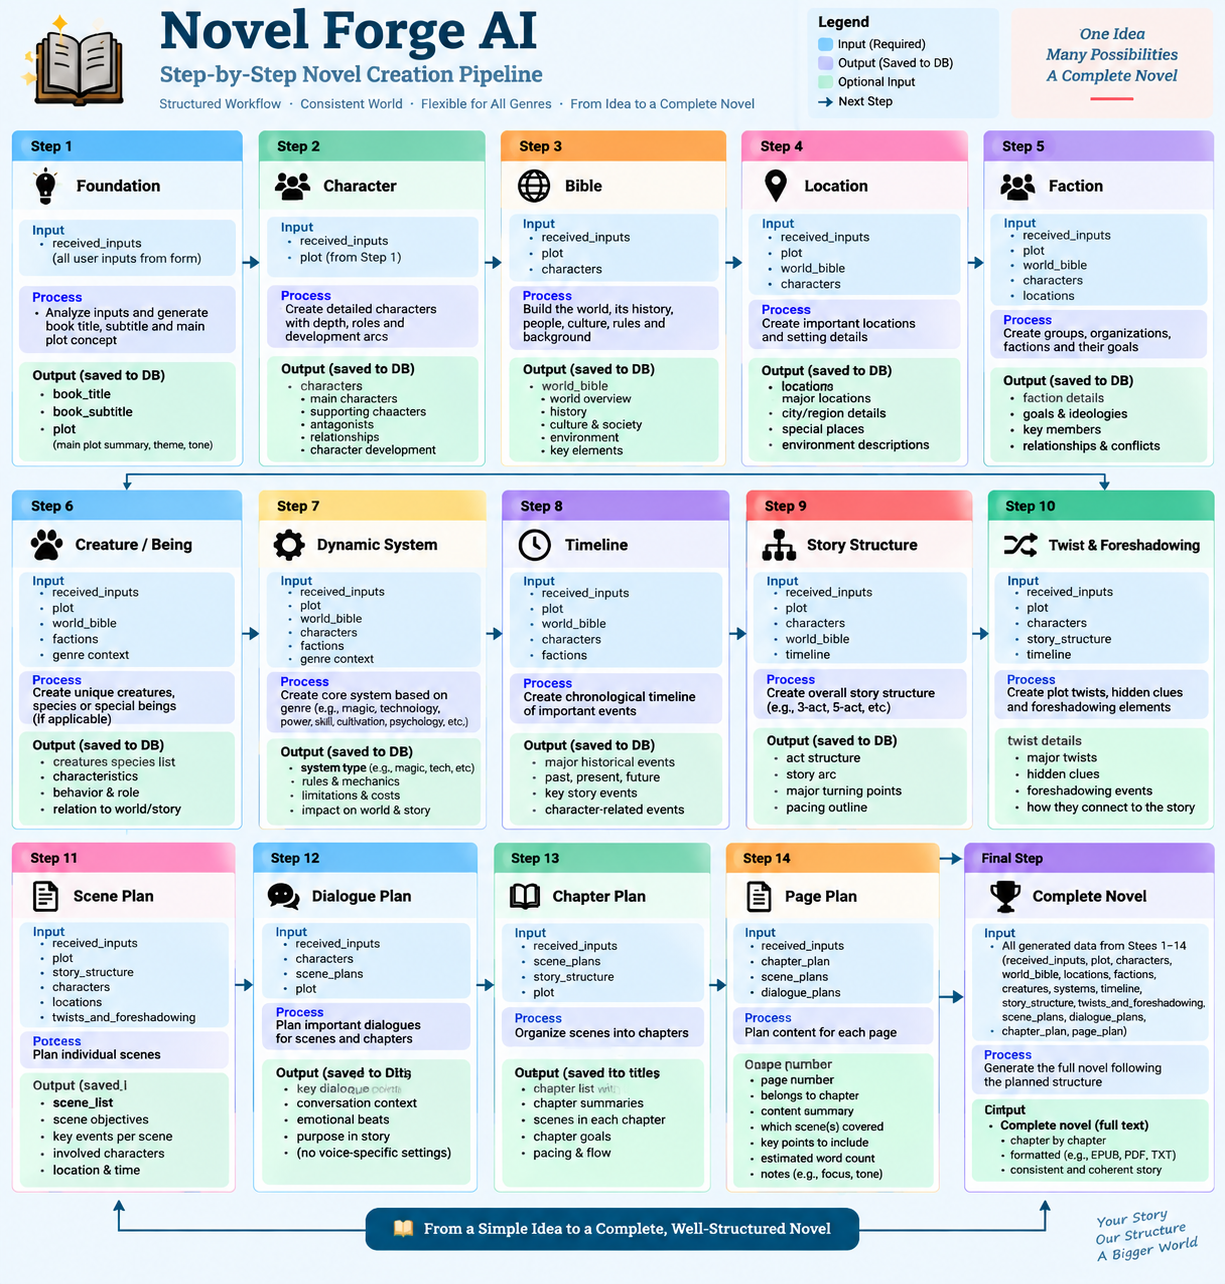
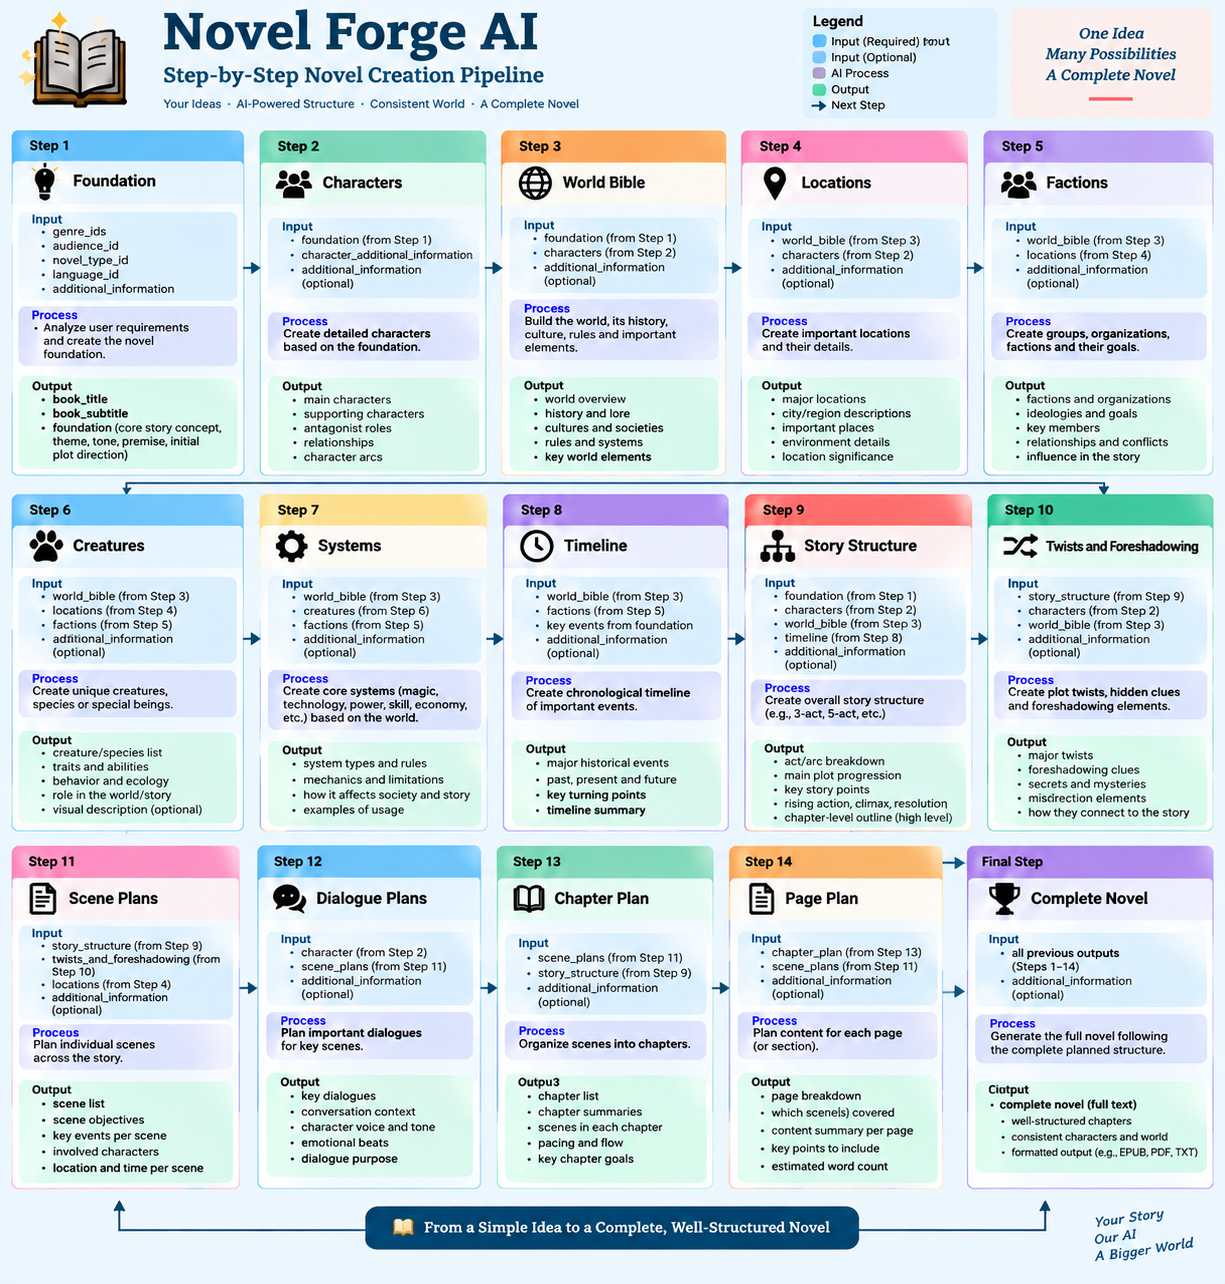
Plot -> foundation

diff --git a/src/resources/js/components/back-office/novel/NovelStep2CharactersForm.vue b/src/resources/js/components/back-office/novel/NovelStep2CharactersForm.vue
@@ -26,12 +26,12 @@ const { novel } = defineProps({
 const isUpdate = computed(() => !!novel?.id);
 
 const charactersGeneratorForm = useForm({
-    plot: novel?.plot
-        ? typeof novel.plot === "string"
-            ? novel.plot
-            : JSON.stringify(novel.plot)
+    foundation: novel?.foundation
+        ? typeof novel.foundation === "string"
+            ? novel.foundation
+            : JSON.stringify(novel.foundation)
         : null,
-    character_additional_information: null,
+    additional_information: null,
     ai_brain_id: null,
 });
 
@@ -48,8 +48,8 @@ const validate = () => {
         valid = false;
     }
 
-    if (!charactersGeneratorForm.plot) {
-        charactersGeneratorForm.setError("plot", "Plot is required");
+    if (!charactersGeneratorForm.foundation) {
+        charactersGeneratorForm.setError("foundation", "Foundation is required");
         valid = false;
     }
 
@@ -89,8 +89,8 @@ const submit = () => {
     <div class="space-y-6">
         <div class="bg-white border rounded-xl p-5 shadow-sm space-y-4">
             <div>
-                <p v-if="charactersGeneratorForm.errors.plot">
-                    {{ charactersGeneratorForm.errors.plot }}
+                <p v-if="charactersGeneratorForm.errors.foundation">
+                    {{ charactersGeneratorForm.errors.foundation }}
                 </p>
             </div>
 
@@ -99,12 +99,12 @@ const submit = () => {
                     Characters Additional Information
                 </label>
 
-                <textarea v-model="charactersGeneratorForm.character_additional_information" rows="3"
+                <textarea v-model="charactersGeneratorForm.additional_information" rows="3"
                     placeholder="Any additional context or instructions for the AI..."
                     class="w-full border rounded-md px-3 py-2 text-sm focus:ring-2 focus:ring-blue-500 focus:outline-none border-gray-300"></textarea>
 
-                <p v-if="charactersGeneratorForm.errors.character_additional_information">
-                    {{charactersGeneratorForm.errors.character_additional_information}}
+                <p v-if="charactersGeneratorForm.errors.additional_information">
+                    {{charactersGeneratorForm.errors.additional_information}}
                 </p>
             </div>
         </div>

diff --git a/src/app/Helpers/AiPromptGeneratorHelper.php b/src/app/Helpers/AiPromptGeneratorHelper.php
@@ -23,7 +23,7 @@ class AiPromptGeneratorHelper
 
                 1. Novel Title
                 2. Novel Subtitle
-                3. Novel Plot Foundation
+                3. Novel Foundation
 
             ==================================================
             USER INPUT
@@ -118,7 +118,7 @@ class AiPromptGeneratorHelper
             Do not create complete world-building documentation or a world bible.
 
             ==================================================
-            PLOT DEVELOPMENT
+            FOUNDATION DEVELOPMENT
             ==================================================
 
             Build a strong narrative foundation.
@@ -166,7 +166,7 @@ class AiPromptGeneratorHelper
 
             Avoid generic, predictable, formulaic, repetitive, mechanical, or shallow storytelling.
 
-            Do not rely on common plot formulas unless they are meaningfully transformed into something distinctive.
+            Do not rely on common foundation formulas unless they are meaningfully transformed into something distinctive.
 
             Make important story elements feel intentional and interconnected.
 
@@ -235,7 +235,7 @@ class AiPromptGeneratorHelper
             {
                 \"novel_title\": \"\",
                 \"novel_subtitle\": \"\",
-                \"novel_plot\": {
+                \"novel_foundation\": {
 
                     \"premise\": \"\",
                     \"story_concept\": \"\",
@@ -282,7 +282,7 @@ class AiPromptGeneratorHelper
                 - The title represents the novel's identity.
                 - The subtitle supports the novel's identity.
                 - The premise is distinctive and compelling.
-                - The plot has a clear narrative direction.
+                - The foundation has a clear narrative direction.
                 - The protagonist has a meaningful motivation and goal.
                 - The central conflict is meaningful.
                 - The opposing force creates genuine obstacles.
@@ -338,7 +338,7 @@ class AiPromptGeneratorHelper
             EXISTING NOVEL FOUNDATION
             ==================================================
 
-            {{plot}}
+            {{foundation}}
 
             Carefully analyze the existing novel foundation.
 
@@ -358,7 +358,7 @@ class AiPromptGeneratorHelper
 
             Create characters that naturally support the existing story.
 
-            Do not change, rewrite, or expand the plot.
+            Do not change, rewrite, or expand the foundation.
 
             The existing novel foundation is the source of truth.
 
@@ -366,7 +366,7 @@ class AiPromptGeneratorHelper
             CHARACTER ADDITIONAL INFORMATION
             ==================================================
 
-            {{character_additional_information}}
+            {{additional_information}}
 
             This field is optional.
 
@@ -375,13 +375,13 @@ class AiPromptGeneratorHelper
                 - Use it as creative guidance.
                 - Integrate it naturally with the existing novel foundation.
                 - Maintain consistency with the established story direction.
-                - Do not allow it to conflict with the existing plot.
+                - Do not allow it to conflict with the existing foundation.
 
             If this field is empty, null, missing, or contains \"Auto\":
 
                 - Automatically determine the required characters.
                 - Use professional storytelling judgment.
-                - Create characters that best support the plot, conflict, themes, and emotional journey.
+                - Create characters that best support the foundation, conflict, themes, and emotional journey.
 
             Do not create unnecessary characters.
 
@@ -539,7 +539,7 @@ class AiPromptGeneratorHelper
 
         Before returning the result, verify:
 
-            - Characters directly support the existing plot.
+            - Characters directly support the existing foundation.
             - Main character supports the central conflict.
             - Supporting characters have clear narrative purposes.
             - Opposing characters create meaningful obstacles.

diff --git a/src/app/Services/BackOffice/NovelService.php b/src/app/Services/BackOffice/NovelService.php
@@ -124,7 +124,7 @@ class NovelService
 
                 $novel->title     = $foundationObject->title;
                 $novel->sub_title = $foundationObject->subtitle;
-                $novel->plot      = $foundationObject->plot;
+                $novel->foundation      = $foundationObject->foundation;
 
                 $novel->audience_id   = $request->input("audience_id");
                 $novel->novel_type_id = $request->input("novel_type_id");
@@ -175,7 +175,7 @@ class NovelService
             $aiPrompt = $this->aiPromptService->findByCode(Str::studly(AiPromptGeneratorHelper::AI_PROMPT_NAME_CHARACTER_GENERATOR));
             $aiBrain  = $this->aiBrainService->findById($request->input("ai_brain_id"));
 
-            $requestInputs = $this->charactersRequestInputsFormatter($novel, $request->input("character_additional_information", "Auto"));
+            $requestInputs = $this->charactersRequestInputsFormatter($novel, $request->input("additional_information", "Auto"));
             $prompt        = AiPromptGeneratorHelper::generateFullPrompt($aiPrompt->prompt, $requestInputs);
 
             $apiResponse = $this->huggingFaceApiService->sendPostRequest($aiBrain->api_url, $aiBrain->api_key, $aiBrain->model, $prompt, $aiBrain->max_output_tokens, $aiBrain->timeout_seconds);
@@ -268,7 +268,7 @@ class NovelService
         return (object) [
             'title'    => $decoded['novel_title'] ?? null,
             'subtitle' => $decoded['novel_subtitle'] ?? null,
-            'plot'     => $decoded['novel_plot'] ?? null,
+            'foundation'     => $decoded['novel_foundation'] ?? null,
         ];
     }
 
@@ -308,14 +308,14 @@ class NovelService
         return $receivedInputs;
     }
 
-    private function charactersRequestInputsFormatter(Novel $novel, string $characterAdditionalInformation): array
+    private function charactersRequestInputsFormatter(Novel $novel, string $additionalIinformation): array
     {
         $requestInputs = [];
 
-        $formatedPlot  = json_encode($novel->plot, JSON_PRETTY_PRINT);
+        $formatedFoundation  = json_encode($novel->foundation, JSON_PRETTY_PRINT);
         $requestInputs = [
-            "plot"                             => $formatedPlot,
-            "character_additional_information" => $characterAdditionalInformation,
+            "foundation"                             => $formatedFoundation,
+            "additional_information" => $additionalIinformation,
         ];
 
         return $requestInputs;

diff --git a/src/app/Http/Requests/NovelCharactersRequest.php b/src/app/Http/Requests/NovelCharactersRequest.php
@@ -23,12 +23,12 @@ class NovelCharactersRequest extends FormRequest
     public function rules(): array
     {
         return [
-            'character_additional_information' => [
+            'additional_information' => [
                 'nullable',
                 'string',
             ],
 
-            'plot' => [
+            'foundation' => [
                 'required',
             ],
         ];
@@ -37,8 +37,8 @@ class NovelCharactersRequest extends FormRequest
     public function messages()
     {
         return [
-            'plot.required'  => 'Plot is required.',
-            'character_additional_information.string'  => 'Character additional information must be a string.',
+            'foundation.required'  => 'Foundation is required.',
+            'additional_information.string'  => 'Character additional information must be a string.',
         ];
     }
 }

diff --git a/src/app/Models/Novel.php b/src/app/Models/Novel.php
@@ -33,7 +33,7 @@ use Spatie\Sluggable\SlugOptions;
     'language_id',
     'ai_prompt',
 
-    'plot',
+    'foundation',
     'characters',
     'world_bible',
     'locations',
@@ -62,7 +62,7 @@ class Novel extends Model
         return [
 
             'characters' => 'array',
-            'plot' => 'array',
+            'foundation' => 'array',
             'world_bible' => 'array',
             'locations' => 'array',
             'factions' => 'array',
@@ -94,7 +94,7 @@ class Novel extends Model
                 "novel_type_id",
                 'language_id',
                 'ai_prompt',
-                'plot',
+                'foundation',
                 'characters',
                 'world_bible',
                 'locations',

diff --git a/src/database/migrations/2026_09_07_131428_create_novels_table.php b/src/database/migrations/2026_09_07_131428_create_novels_table.php
@@ -28,7 +28,7 @@ return new class extends Migration
             $table->longText('additional_information')->nullable();
 
 
-            $table->jsonb('plot')->nullable();
+            $table->jsonb('foundation')->nullable();
             $table->jsonb('characters')->nullable();
             $table->jsonb('world_bible')->nullable();
             $table->jsonb('locations')->nullable();
